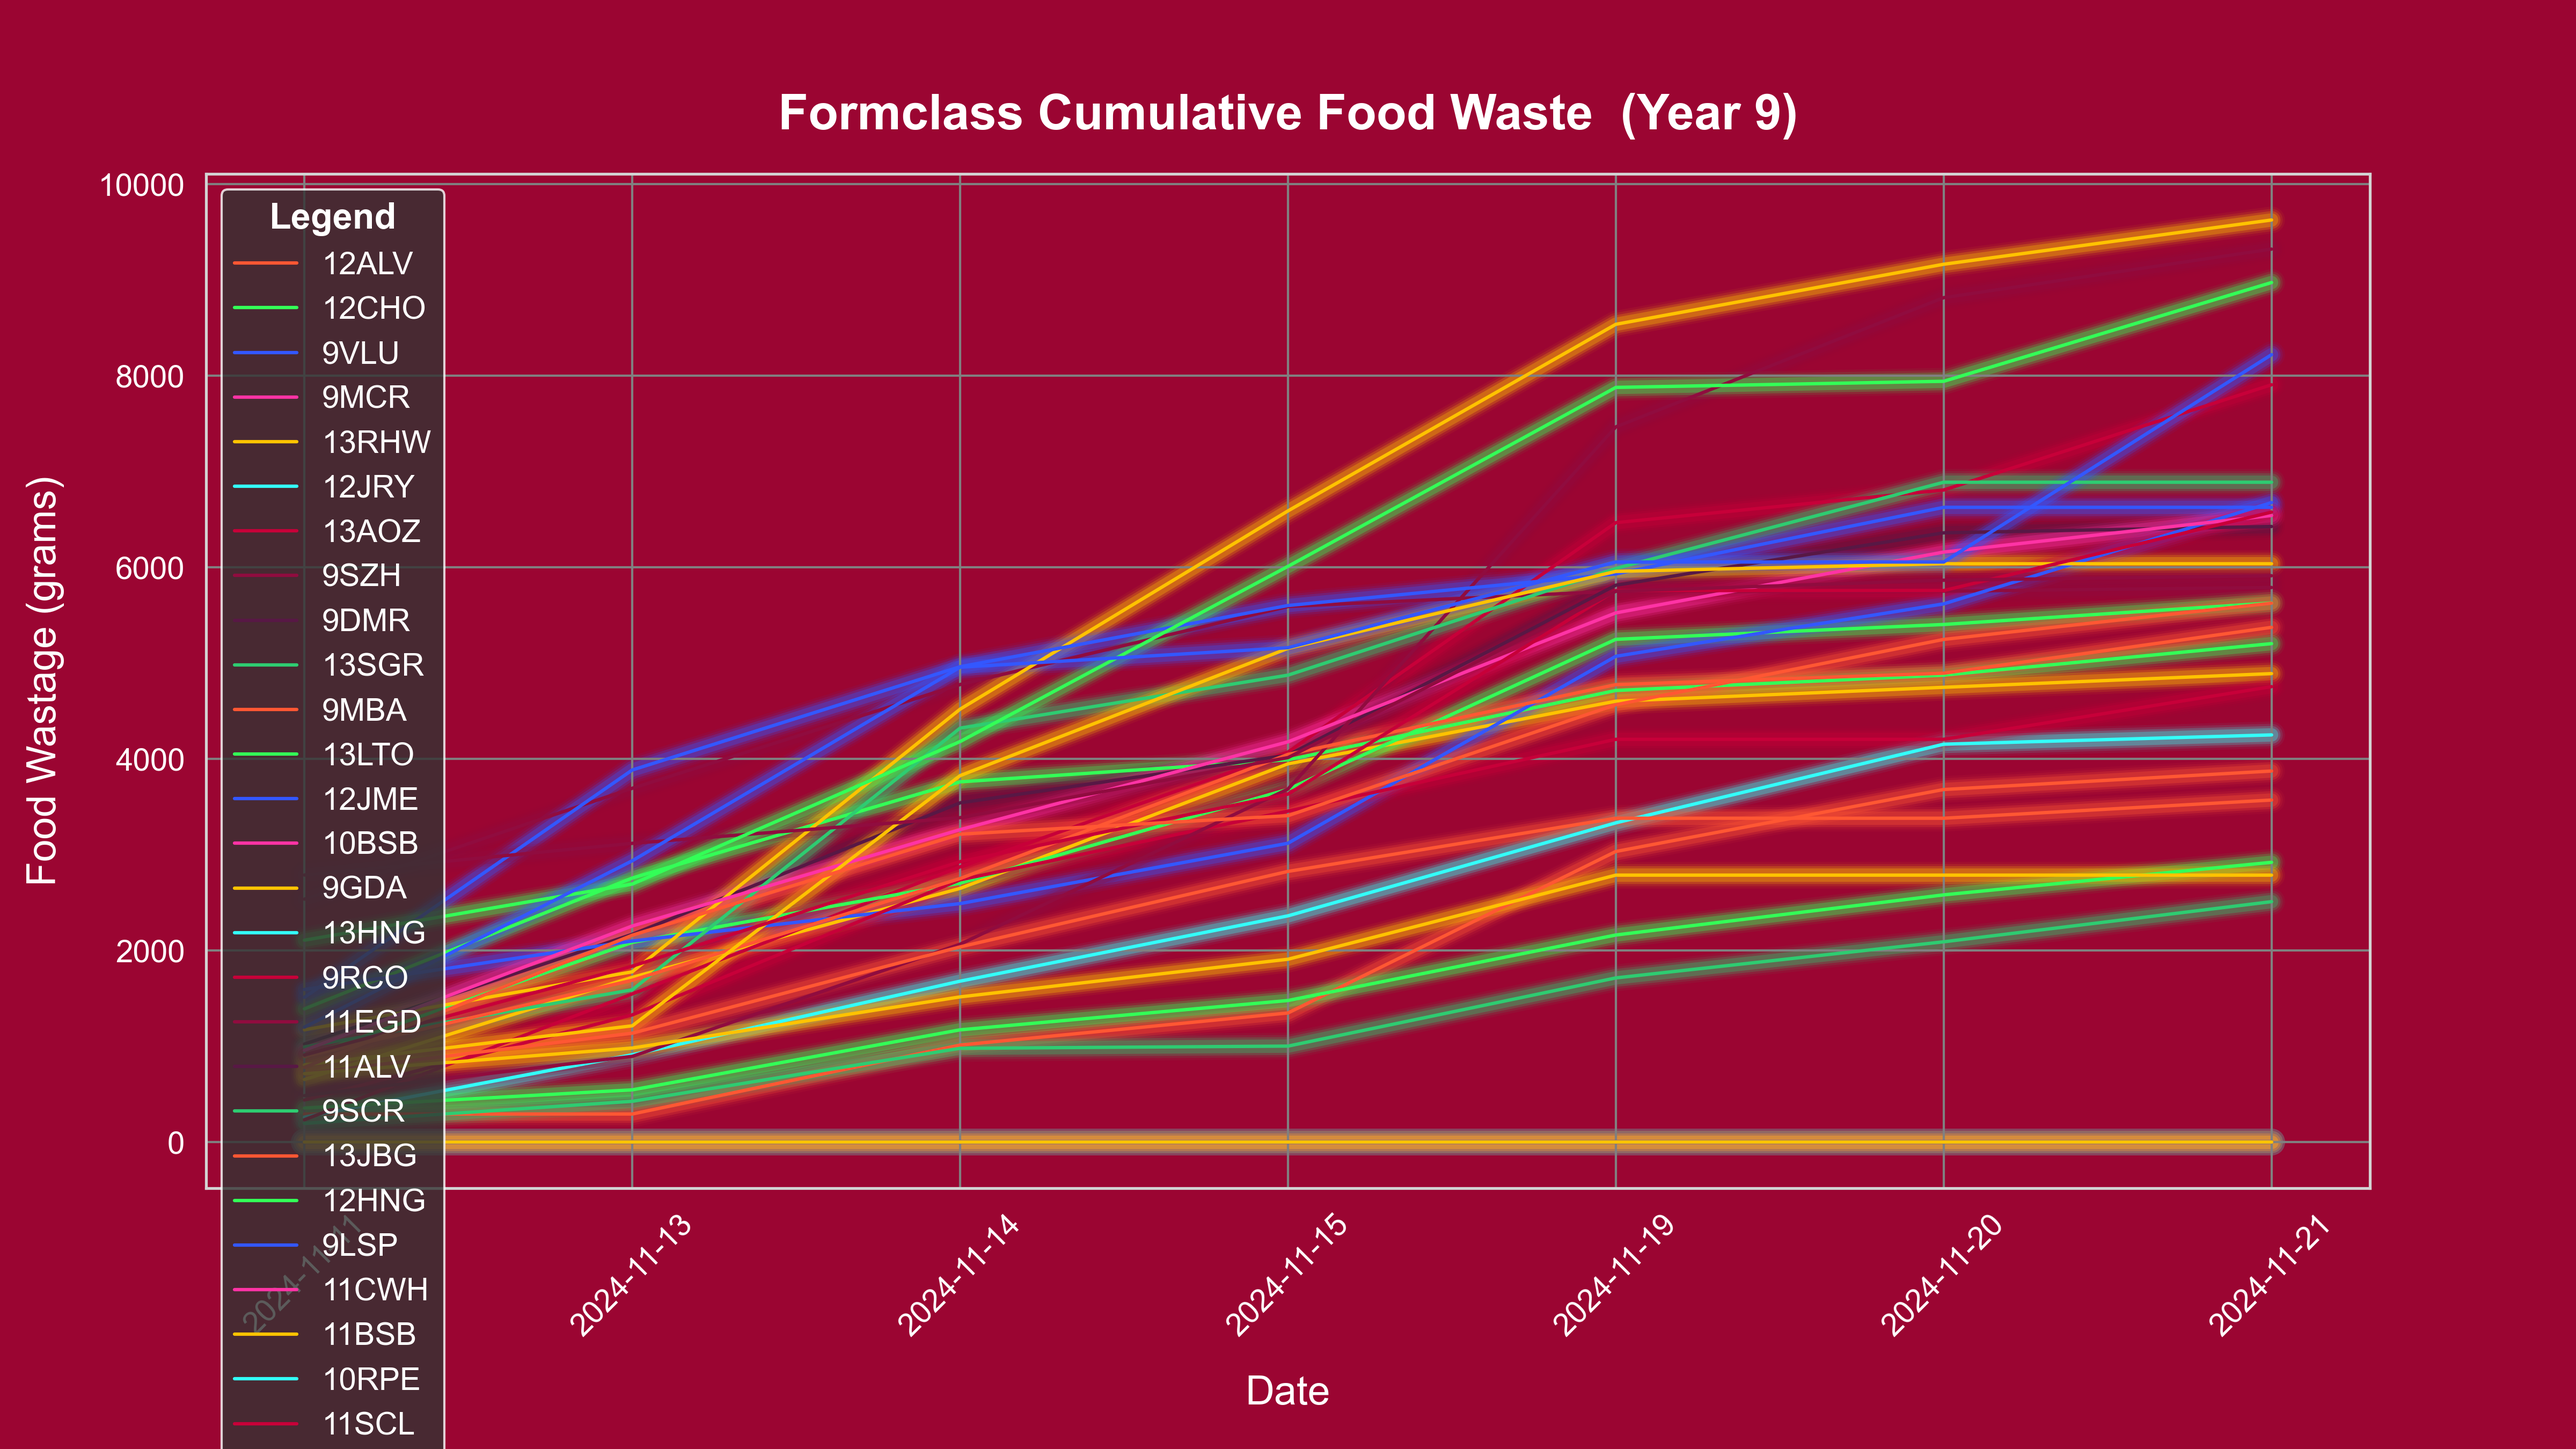
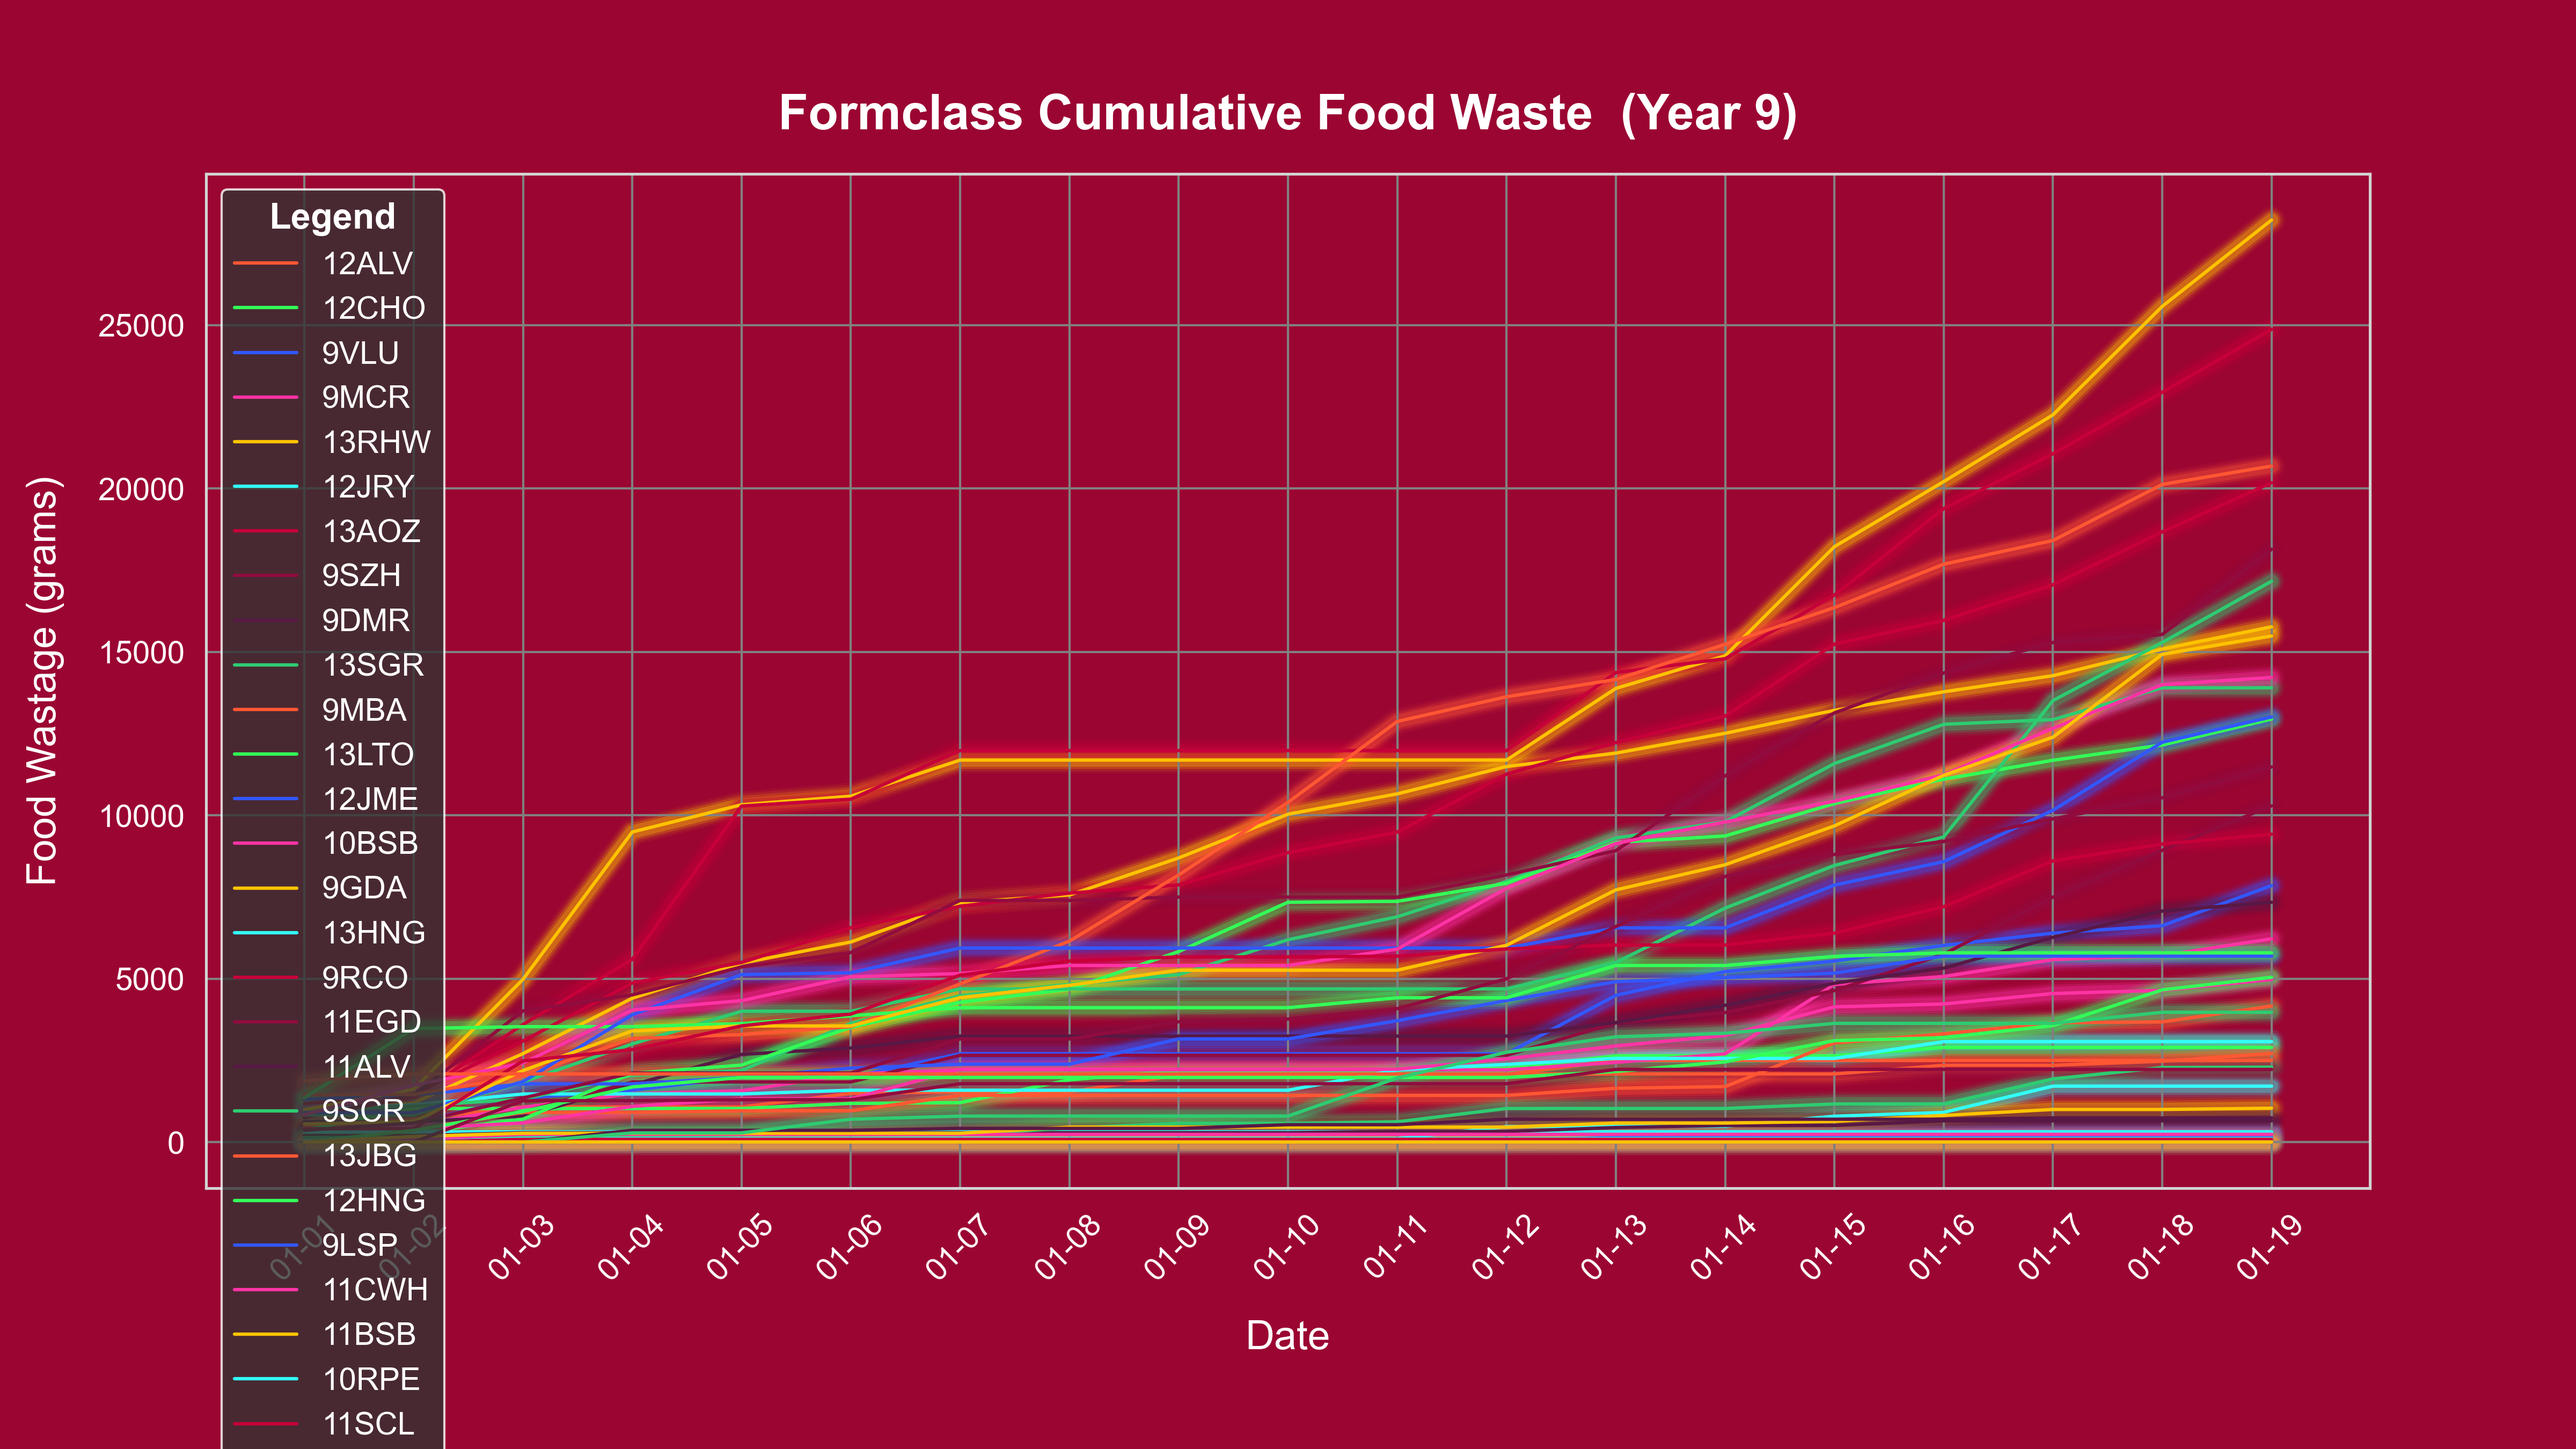
final tests

diff --git a/main.py b/main.py
@@ -401,6 +401,11 @@ def cumulative_plot_waste(all_data, ax, startDate, endDate):
     ax.set_xlabel('Date', fontsize=12, color="white")
     ax.set_ylabel('Total Wastage (grams)', fontsize=12, color="white")
     ax.legend(loc='upper left', fontsize=10)
+    ax.xaxis.label.set_color('white')
+    ax.yaxis.label.set_color('white')
+    ax.tick_params(axis='x', colors='white')
+    ax.tick_params(axis='y', colors='white')
+    ax.xaxis.set_major_formatter(mdates.DateFormatter('%m-%d'))
 
 def cumulative_plot_buys(counter_purchases, ax):
     cumulative_counter_purchases = {}
@@ -421,6 +426,11 @@ def cumulative_plot_buys(counter_purchases, ax):
     ax.set_xlabel('Date', fontsize=12, color="white")
     ax.set_ylabel('Total Buys', fontsize=12, color="white")
     ax.legend(loc='upper left', fontsize=10)
+    ax.xaxis.label.set_color('white')
+    ax.yaxis.label.set_color('white')
+    ax.tick_params(axis='x', colors='white')
+    ax.tick_params(axis='y', colors='white')
+    ax.xaxis.set_major_formatter(mdates.DateFormatter('%m-%d'))
 
 def plot_counter_averages(daily_counter_wastage, ax):
     averages = []
@@ -438,6 +448,10 @@ def plot_counter_averages(daily_counter_wastage, ax):
     ax.set_title('Counter Averages Over Time', fontsize=16, color="white")
     ax.set_xlabel('Counter', fontsize=12, color="white")
     ax.set_ylabel('Average Wastage (grams)', fontsize=12, color="white")
+    ax.xaxis.label.set_color('white')
+    ax.yaxis.label.set_color('white')
+    ax.tick_params(axis='x', colors='white')
+    ax.tick_params(axis='y', colors='white')
 
 def spec_plot_weights(all_data, ax, ospec, start_date, end_date, cumulative, year_groups = []):
     house_colors = {
@@ -538,6 +552,11 @@ def spec_plot_weights(all_data, ax, ospec, start_date, end_date, cumulative, yea
     ax.set_title(f'{title_type} Wastage Over Time by {ospec}', fontsize=16, color="white")
     ax.set_xlabel('Date', fontsize=12, color="white")
     ax.set_ylabel('Wastage (grams)', fontsize=12, color="white")
+    ax.xaxis.label.set_color('white')
+    ax.yaxis.label.set_color('white')
+    ax.tick_params(axis='x', colors='white')
+    ax.tick_params(axis='y', colors='white')
+    ax.xaxis.set_major_formatter(mdates.DateFormatter('%m-%d'))
 
     # Apply consistent legend styling
     handles, labels = ax.get_legend_handles_labels()

diff --git a/app.py b/app.py
@@ -126,7 +126,8 @@ def authenticate(entry_username, entry_password, root):
     if username == "admin" and password == "pw":
         #messagebox.showinfo("Login Success", "Welcome, Admin!")
         root.destroy()  # Close the login window
-        mode_choice()  # Transition to the next screen
+        recap_menu()
+        #mode_choice()  # Transition to the next screen
     else:
         messagebox.showerror("Login Failed", "Invalid username or password.")
 
@@ -182,7 +183,9 @@ def realtime_menu():
     root = setup_window("Real-time Menu", 1)
 
     # Add a back button
-    button_back = tk.Button(root, text="Back", command=lambda: [root.destroy(), mode_choice()], font=small_button_font)
+    #button_back = tk.Button(root, text="Back", command=lambda: [root.destroy(), mode_choice()], font=small_button_font)
+    
+    button_back = tk.Button(root, text="Sign Out", command=lambda: [root.destroy(), signin()], font=small_button_font)
     button_back.grid(row=0, column=0, sticky='ew')
 
     # Configure the grid to expand properly when the window is resized
@@ -309,7 +312,8 @@ def recap_menu():
     #endDate = tk.StringVar(root, value=current_date)
 
     # Add a back button
-    button_back = tk.Button(root, text="Back", width=10, command=lambda: [root.destroy(), mode_choice()], font=small_button_font)
+    #button_back = tk.Button(root, text="Back", width=10, command=lambda: [root.destroy(), mode_choice()], font=small_button_font)
+    button_back = tk.Button(root, text="Sign Out", command=lambda: [root.destroy(), signin()], font=small_button_font)
     button_back.grid(row=0, column=0, sticky='ew')
 
     listbox = None # Initialize the listbox variable
